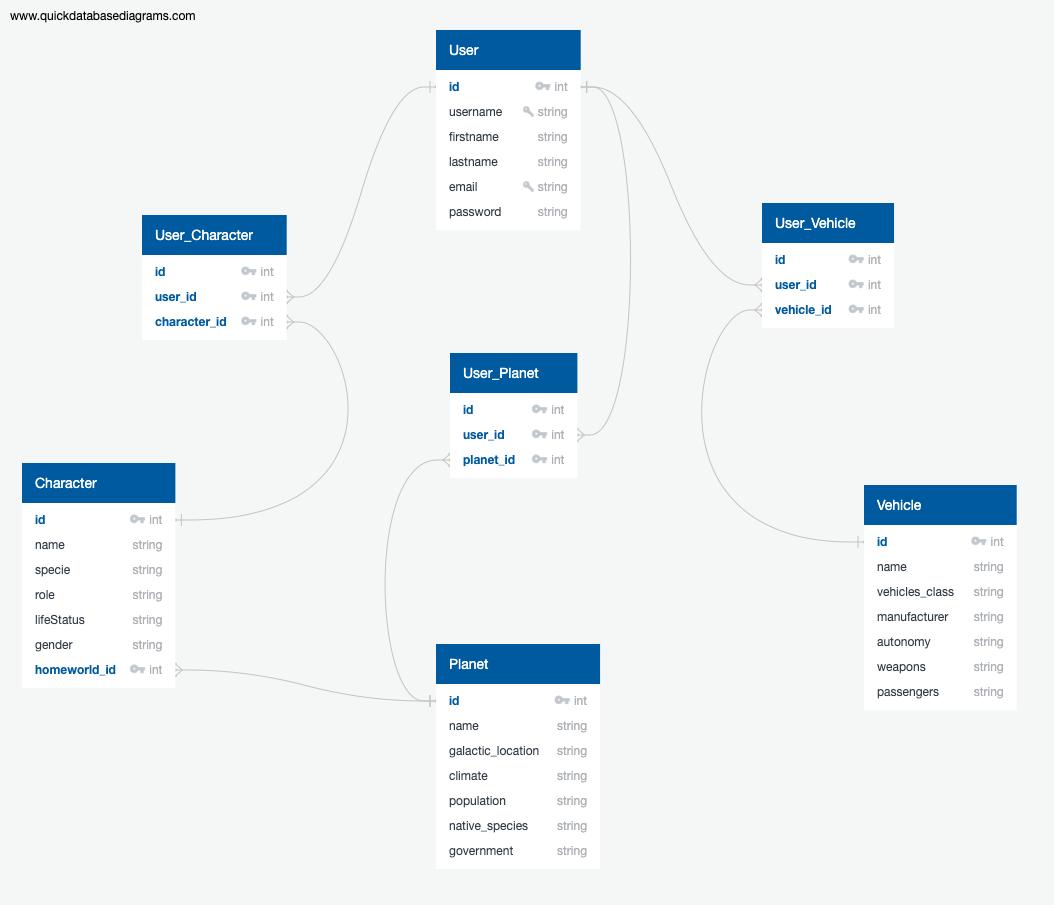
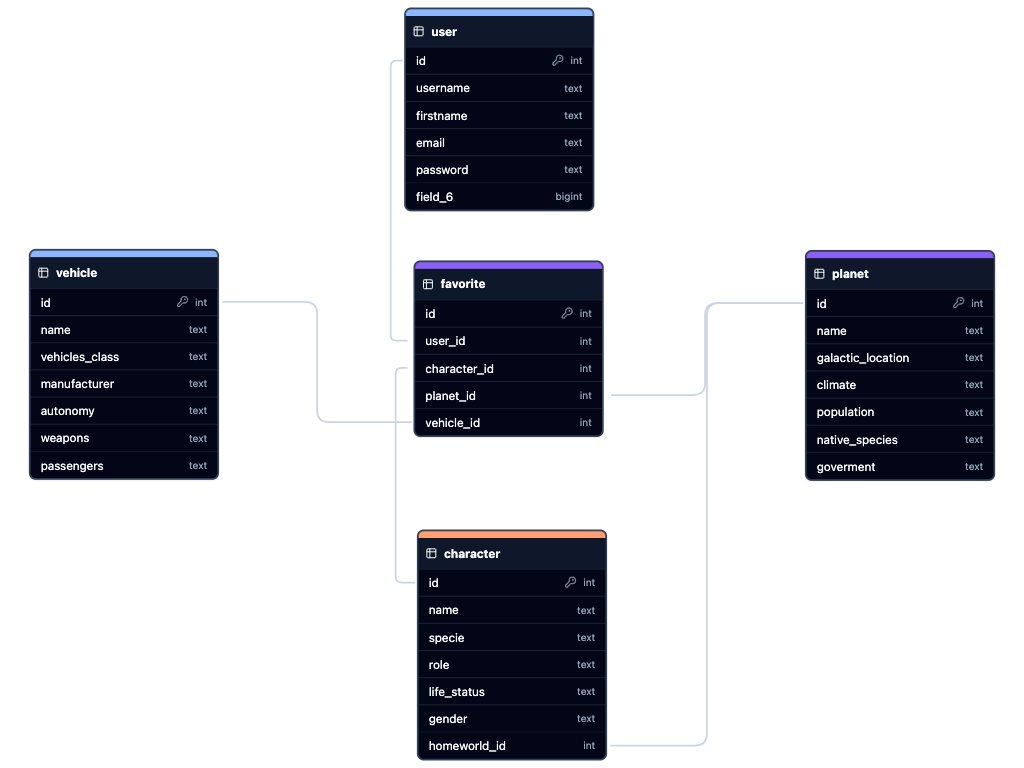
actualizado el diagrama importado tambien

diff --git a/src/models.py b/src/models.py
@@ -18,7 +18,7 @@ class User(Base):
 
 
 class Planet(Base):
-    __tablename__ = 'planets'
+    __tablename__ = 'planet'
     id = Column(Integer, primary_key=True)
     name = Column(String(250), nullable=False) 
     galactic_location = Column(String(250), nullable=False)
@@ -28,18 +28,18 @@ class Planet(Base):
     government  = Column(String(250), nullable=False)
 
 class Character(Base):
-    __tablename__ = 'characters'
+    __tablename__ = 'character'
     id = Column(Integer, primary_key=True)
     name = Column(String(250), nullable=False)
     specie = Column(String(250), nullable=False)
     role = Column(String(250), nullable=False)
-    lifeStatus = Column(String(250), nullable=False)
+    life_status = Column(String(250), nullable=False)
     gender = Column(String(250), nullable=False)
     homeworld_id = Column(Integer, ForeignKey('planet.id'))
     planet = relationship(Planet)
 
 class Vehicle(Base):
-    __tablename__ = 'vehicles'
+    __tablename__ = 'vehicle'
     id = Column(Integer, primary_key=True)
     name = Column(String(250), nullable=False)
     vehicles_class = Column(String(250), nullable=False)
